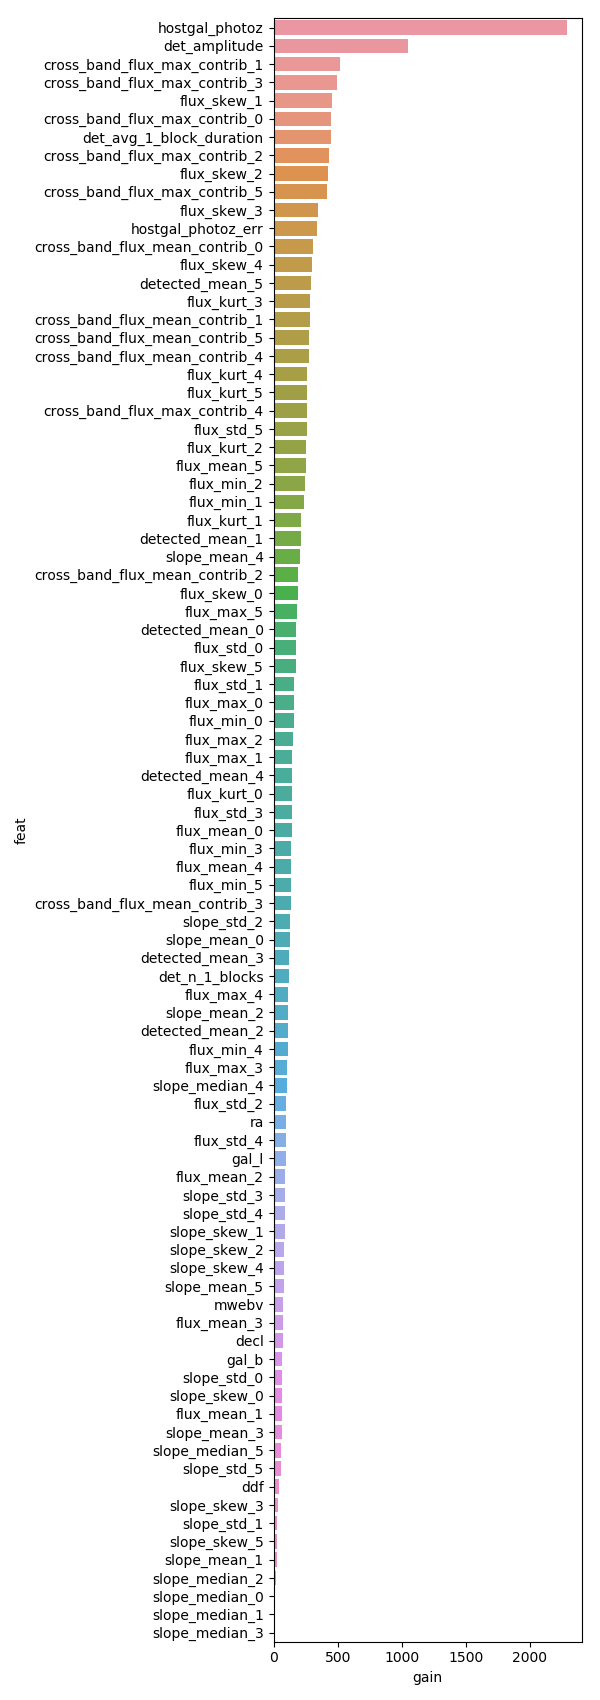
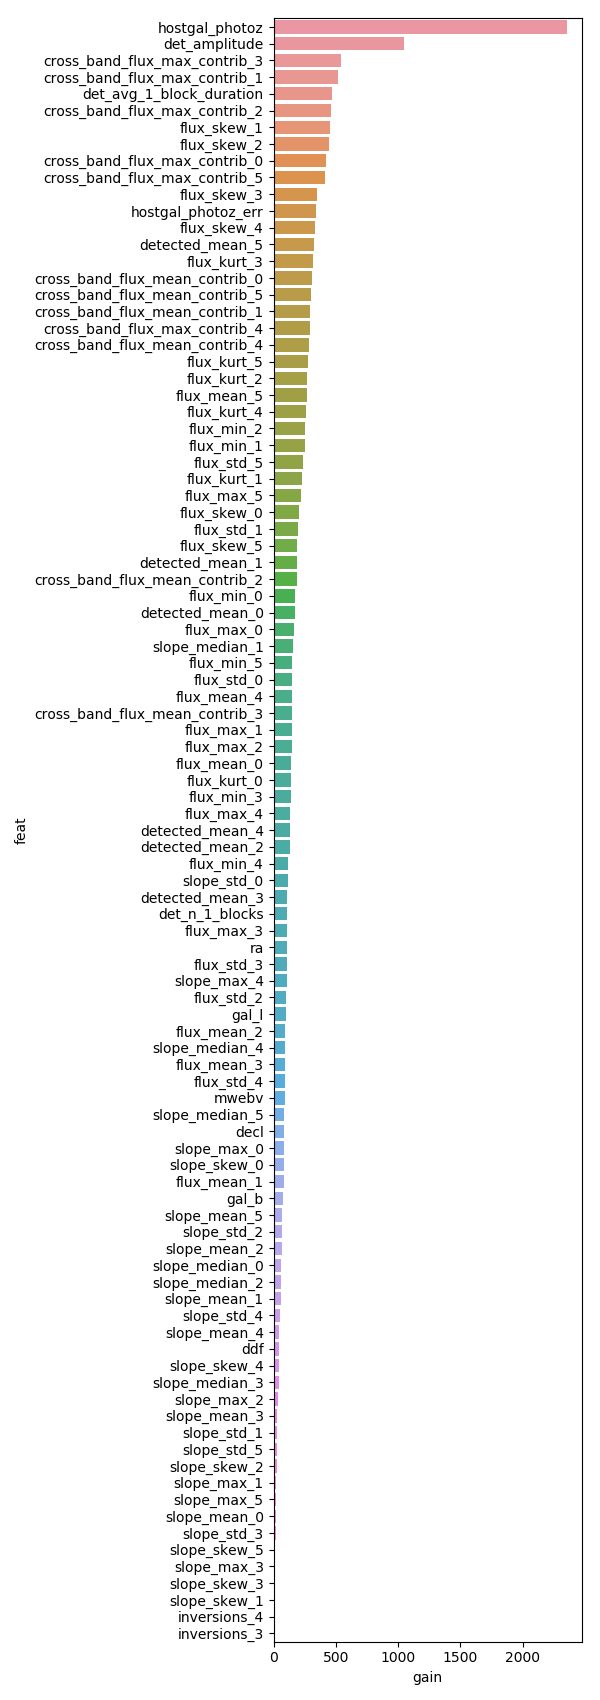
tuesd...

diff --git a/featgen_standard_v2.py b/featgen_standard_v2.py
@@ -30,8 +30,8 @@ def atomic_worker(args):
         't-feats'            : bool(0),
         'd-feats'            : bool(0),
         'cesium-feats'       : bool(0),
-        'slope-feats'        : bool(0),
-        'exp'                : bool(1),
+        'slope-feats'        : bool(1),
+        'exp'                : bool(0),
     }
 
 
@@ -82,22 +82,31 @@ def atomic_worker(args):
             Custom compute of slope feats
             '''
 
-            if np.sum(ds) <= 1: # 0 or 1 detected points are insufficient for slope computation
-                return np.zeros(5)
-
-            # Unused
             mask = (ds[1:] * ds[:-1]) # Mask to compute slope between detected pts only
+            mask = mask.astype(np.bool)
+
+            if np.sum(mask) <= 1: # Insufficient pts for slope computation
+                return np.zeros(6)
 
             s = (ms[1:]-ms[:-1])/(ts[1:]-ts[:-1])
 
-            return np.array([np.max(s), np.median(s), np.mean(s), np.std(s), skew(s)])
+            # Inversions feat
+            masked_peak_index = np.argmax(ms[1:][mask])
+
+            inversions = 0
+            for i, s_ in enumerate(s[mask][1:]):
+                if s_ * s[mask][i] < 0:
+                    inversions += 1
+            inversions /= s[mask].shape[0]
+
+            return np.array([inversions, np.max(s), np.median(s), np.mean(s), np.std(s), skew(s)])
 
 
         # Define feats to compute
         feats_to_compute = [slope_feats]
         num_bands = 6
         local_names = []
-        for fn in ['slope_max', 'slope_median', 'slope_mean', 'slope_std', 'slope_skew']:
+        for fn in ['inversions', 'slope_max', 'slope_median', 'slope_mean', 'slope_std', 'slope_skew']:
             local_names.extend([f'{fn}_{i:d}' for i in range(num_bands)])
 
         feat_names.extend(local_names)
@@ -422,7 +431,7 @@ set_str = 'training'
 st = time.time()
 main(
     save_dir='data/'+set_str+'_feats',
-    save_name=set_str+'_set_feats_r2_exp.h5',
+    save_name=set_str+'_set_feats_r2_slope_v7.h5',
     light_curves_dir='data/'+set_str+'_cesium_curves',
     n_batches=8,
 )

diff --git a/lgbm.py b/lgbm.py
@@ -173,13 +173,12 @@ meta_train, meta_test, y_tgt, train_cols = utils.prep_data()
 # Get data
 train_feats_list = [
     'data/training_feats/training_set_feats_r2_v7.h5',
-    'data/training_feats/training_set_feats_r2_slope_v2.h5',
+    'data/training_feats/training_set_feats_r2_slope_v7.h5',
     #'data/training_feats/training_set_feats_r2_exp.h5',
 ]
 test_feats_list = [
-    #'data/test_feats/test_set_feats_r2_v7.h5',
-    #'data/test_feats/test_set_feats_r2_slope_v2.h5',
-    'data/test_feats/test_set_feats.h5',
+    'data/test_feats/test_set_feats_r2_v7.h5',
+    'data/test_feats/test_set_feats_r2_slope_v2.h5',
 ]
 train = concat_feats(train_feats_list, meta_train)
 test = concat_feats(test_feats_list, meta_test)
@@ -190,9 +189,14 @@ for feat_list in train_feats_list:
     with open(feat_list.split('.h5')[0]+'.pkl', 'rb') as f:
         feat_subset.extend(pickle.load(f))
 
-
 if 'object_id' in feat_subset:
     feat_subset.remove('object_id')
+
+feat_subset.remove('inversions_0')
+feat_subset.remove('inversions_1')
+feat_subset.remove('inversions_2')
+feat_subset.remove('inversions_5')
+
 train_cols.extend(feat_subset)
 
 
